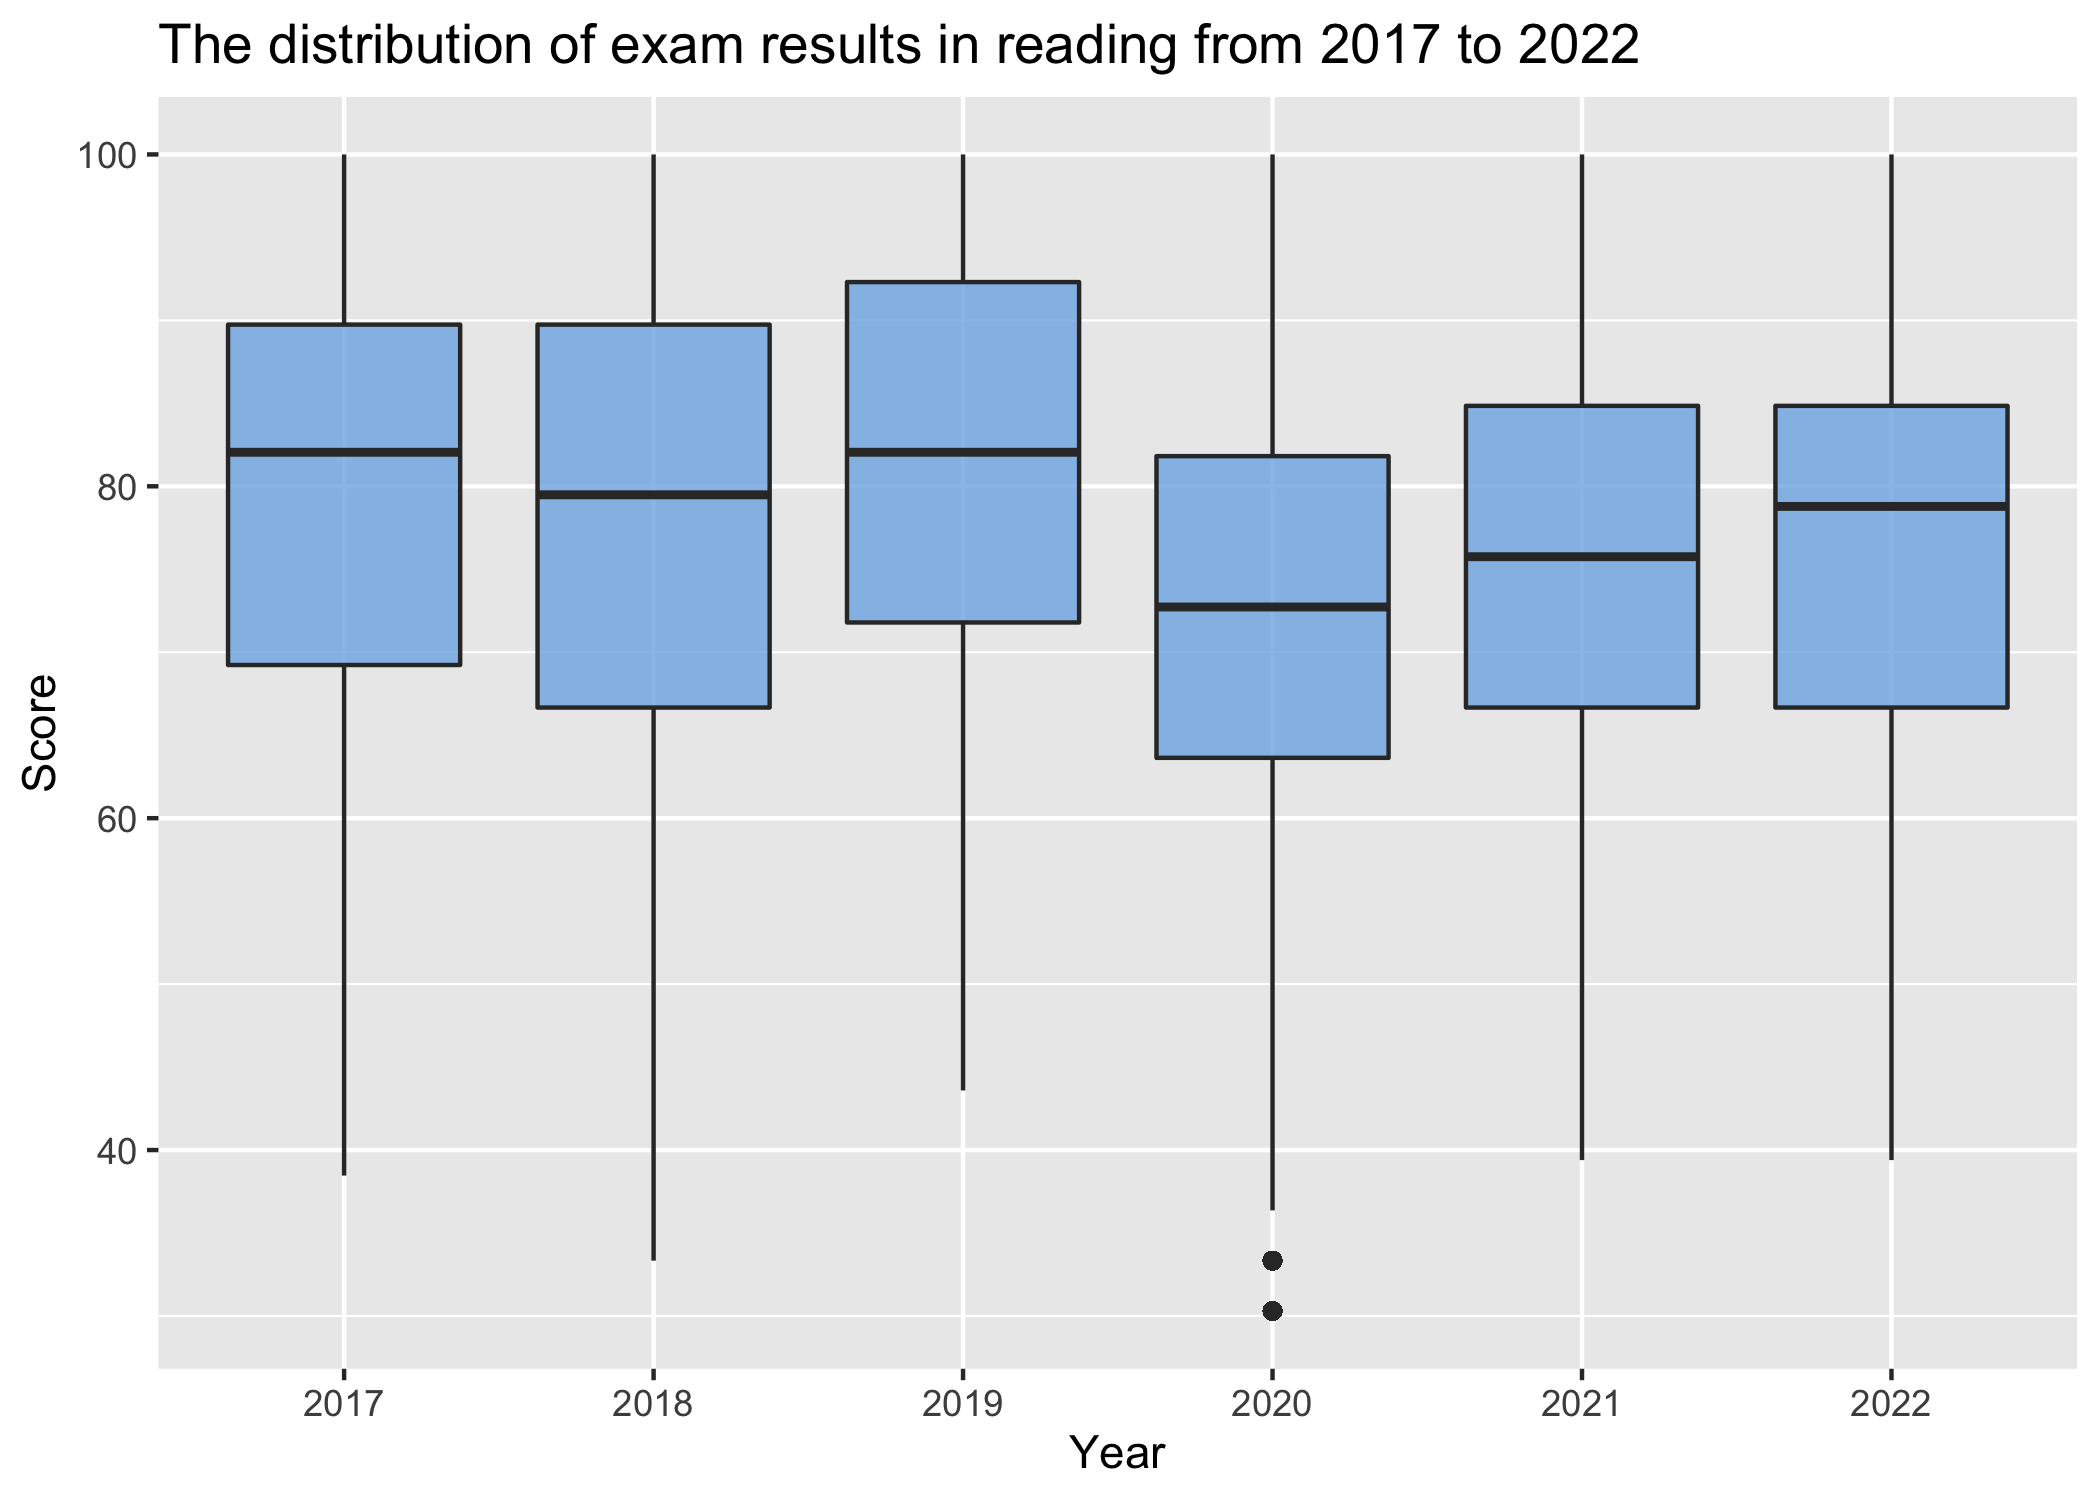
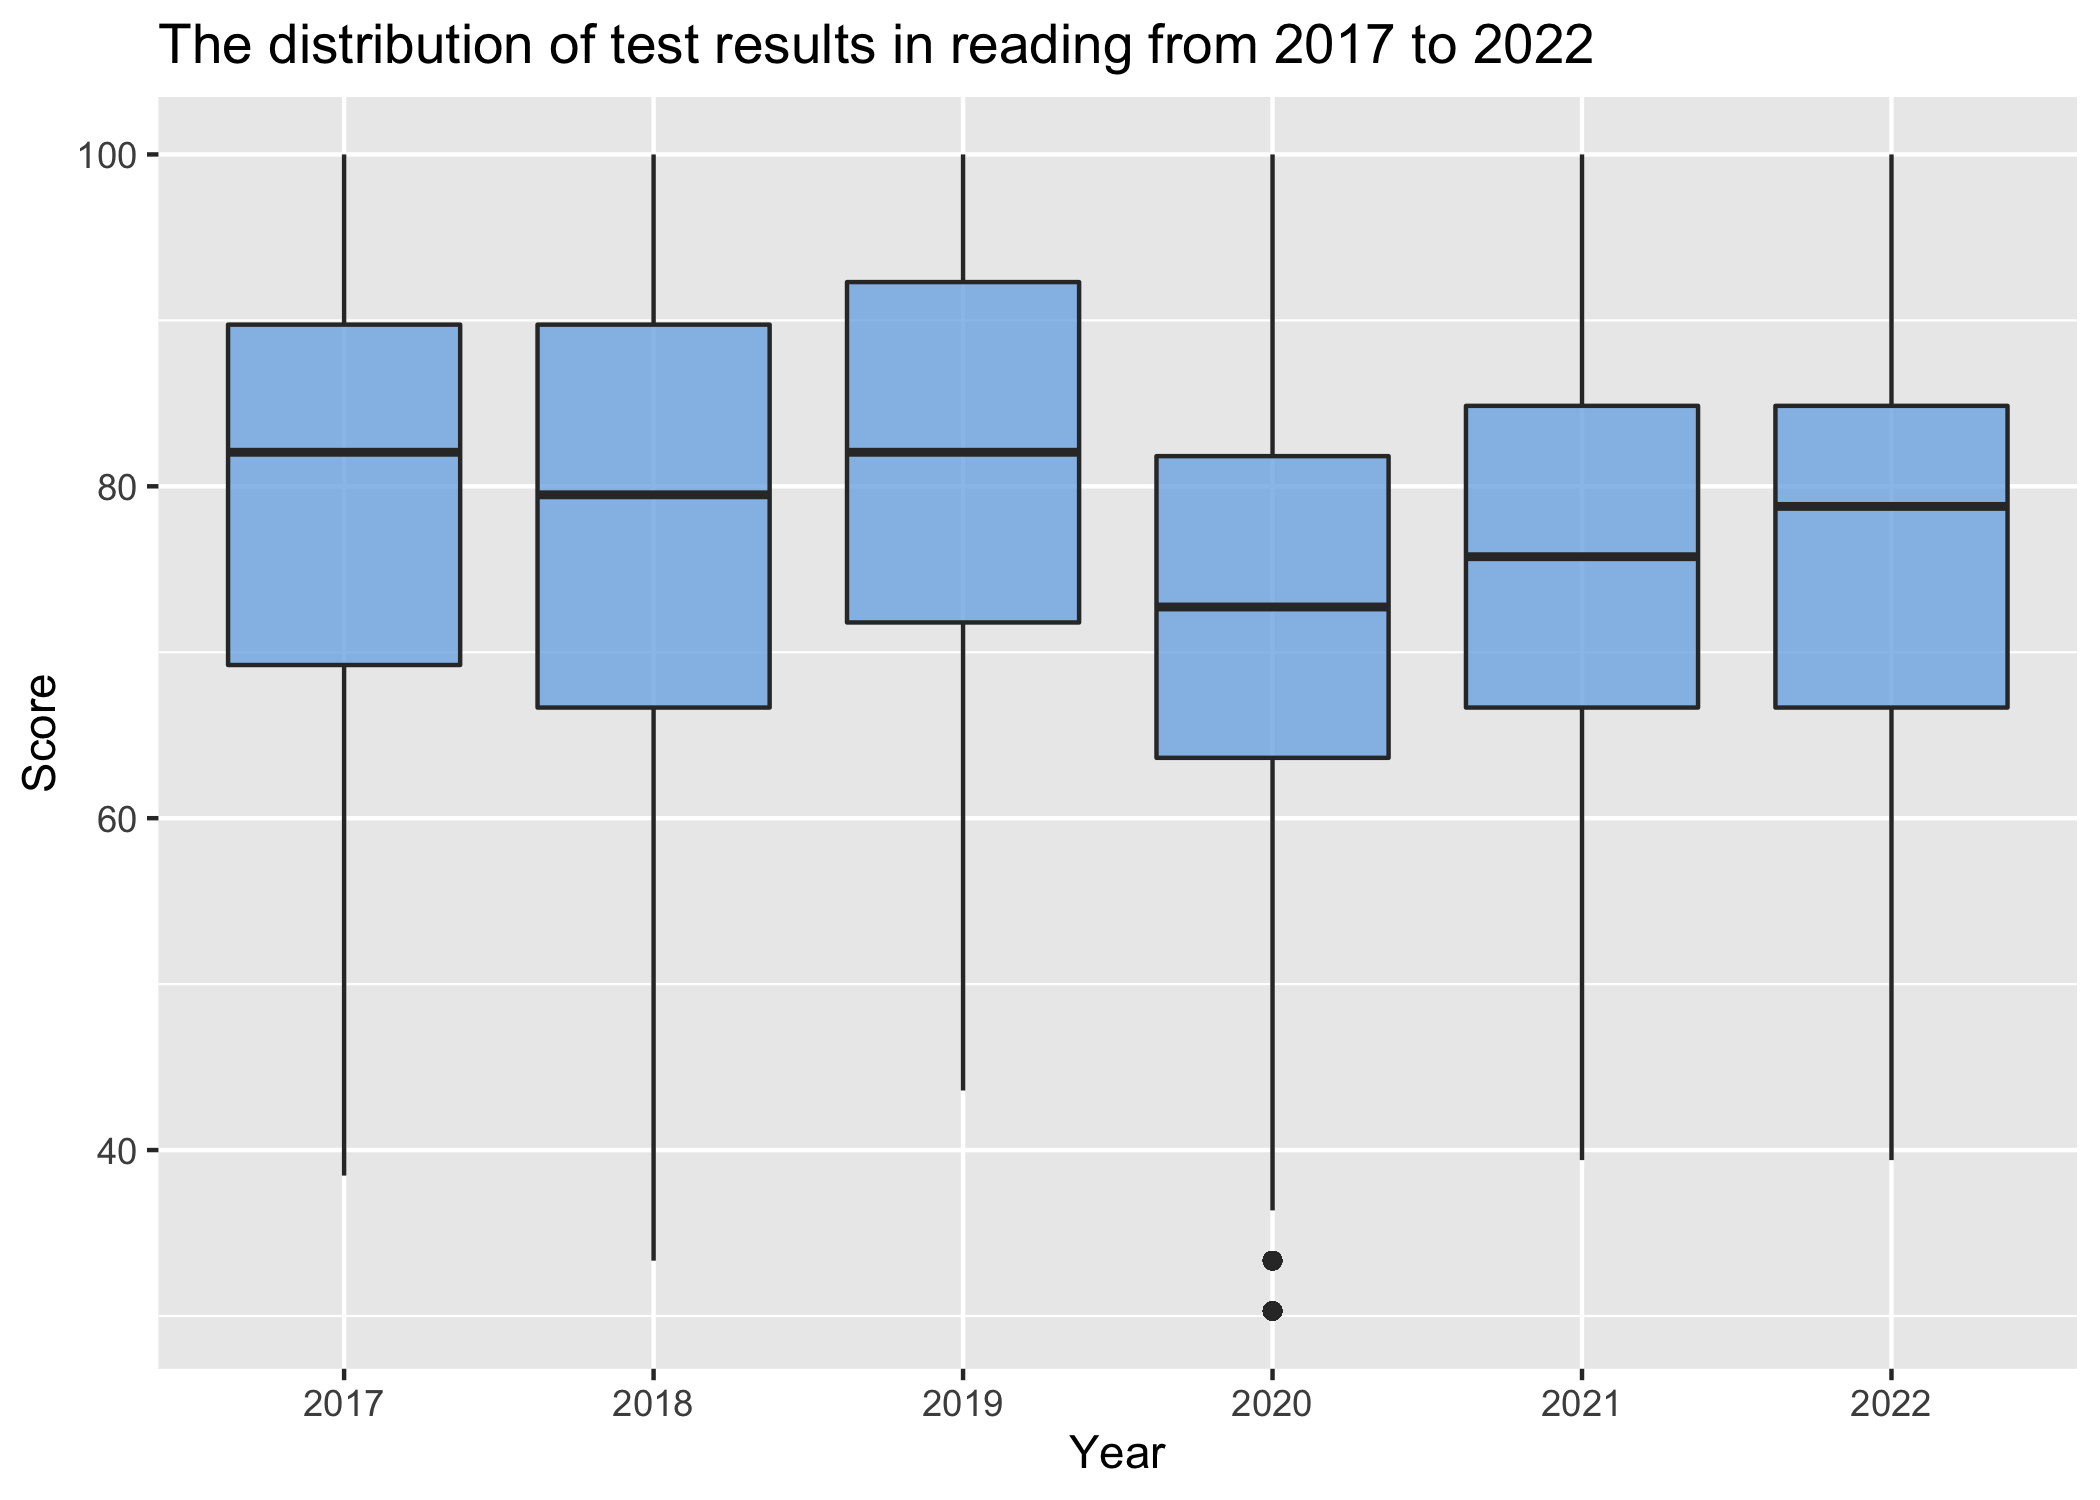
Report

Changed region(s): [[0.2786, 0.0, 0.7738, 0.0613]]

diff --git a/covid-19-exam.md b/covid-19-exam.md
@@ -98,7 +98,7 @@ kable(descriptives, digits = 0, align = c("l", "c", "c", "c", "c"), col.names = 
   kable_styling(full_width = F) %>%
   pack_rows("Reading", 1, 6) %>%
   pack_rows("Math", 7, 12) %>%
-  add_header_above(c("The descriptive statistics for the results of the Unified State Exam
+  add_header_above(c("Descriptive statistics for test results
                      in the region from 2017 to 2022"=6))
 ```
 
@@ -106,7 +106,7 @@ kable(descriptives, digits = 0, align = c("l", "c", "c", "c", "c"), col.names = 
 <thead>
 <tr>
 <th style="border-bottom:hidden;padding-bottom:0; padding-left:3px;padding-right:3px;text-align: center; " colspan="6">
-The descriptive statistics for the results of the Unified State Exam<br> in the region from 2017 to 2022
+Descriptive statistics for test results<br> in the region from 2017 to 2022
 
 </th>
 </tr>
@@ -475,15 +475,15 @@ kable(descriptives, digits = 0, align = c("l", "c", "c", "c", "c"), col.names = 
   kable_styling(full_width = F) %>%
   pack_rows("Reading", 1, 6) %>%
   pack_rows("Mathematics", 7, 12) %>%
-  add_header_above(c("Descriptive Statistics of Unified State Exam 
-                     Results in 2017-2022"=6))
+  add_header_above(c("Descriptive statistics for test results
+                     in the region from 2017 to 2022"=6))
 ```
 
 <table class="table" style="width: auto !important; margin-left: auto; margin-right: auto;">
 <thead>
 <tr>
 <th style="border-bottom:hidden;padding-bottom:0; padding-left:3px;padding-right:3px;text-align: center; " colspan="6">
-Descriptive Statistics of Unified State Exam <br> Results in 2017-2022
+Descriptive statistics for test results<br> in the region from 2017 to 2022
 
 </th>
 </tr>
@@ -764,13 +764,13 @@ Max
 Analysis of the distribution of scores in reading and mathematics over a 6-year period reveals the following:
 
 -   The reading test consistently exhibits the highest scores, indicating its relative ease. The score distribution is skewed to the left, with a significant number of students scoring above the average.
--   In mathematics, the average percentage of completion is generally lower than in reading. The score distribution is slightly skewed to the right in recent years, suggesting a greater level of difficulty compared to the reading exam.
+-   In mathematics, the average percentage of completion is generally lower than in reading. The score distribution is slightly skewed to the right in recent years, suggesting a greater level of difficulty compared to the reading test.
 
 ``` r
 ggplot(ind_data_clean, aes(x = score, fill = subject)) +
   geom_density(alpha = 0.5) +
   facet_wrap(~ year, ncol = 3) +
-  labs(title = "The distribution of exam results by subject in each year",
+  labs(title = "The distribution of test results by subject in each year",
        x = "Score")+
   scale_fill_discrete(name = "Subject", labels = c("Mathematics", "Reading"))
 ```
@@ -780,7 +780,7 @@ ggplot(ind_data_clean, aes(x = score, fill = subject)) +
 ``` r
 ggplot(ind_data_clean[ind_data_clean$subject == "rus", ], aes(x = as.factor(year), y = score)) +
   geom_boxplot(fill = "#7cb3e6", alpha=0.8) +
-  labs(title = "The distribution of exam results in reading from 2017 to 2022", x = "Year", y = "Score")
+  labs(title = "The distribution of test results in reading from 2017 to 2022", x = "Year", y = "Score")
 ```
 
 ![](covid-19-exam_files/figure-markdown_github/unnamed-chunk-10-1.png)
@@ -788,7 +788,7 @@ ggplot(ind_data_clean[ind_data_clean$subject == "rus", ], aes(x = as.factor(year
 ``` r
 ggplot(ind_data_clean[ind_data_clean$subject == "math", ], aes(x = as.factor(year), y = score)) +
   geom_boxplot(fill = "gold1", alpha=0.5) +
-  labs(title = "The distribution of exam results in mathematics from 2017 to 2022", x = "Year", y = "Score")
+  labs(title = "The distribution of test results in mathematics from 2017 to 2022", x = "Year", y = "Score")
 ```
 
 ![](covid-19-exam_files/figure-markdown_github/unnamed-chunk-10-2.png) </details>
